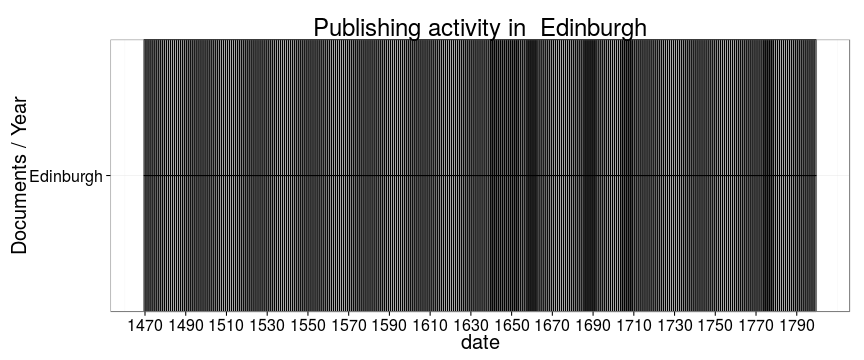
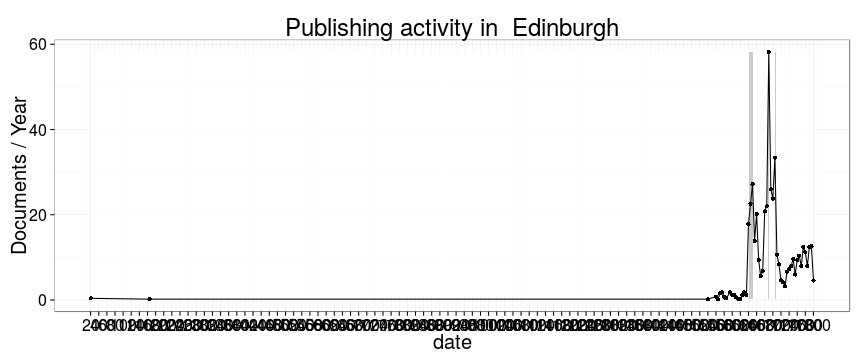
ok

diff --git a/inst/examples/Edinburgh.md b/inst/examples/Edinburgh.md
@@ -9,75 +9,8 @@ output: markdown_document
 
 
 
-
-```
-## Error in tapply(df$unity, list(df$publication.decade, df$publication.place), : arguments must have same length
-```
-
-```
-## Error in publications[is.na(publications)] <- 0: object 'publications' not found
-```
-
-```
-## Error in eval(expr, envir, enclos): object 'publications' not found
-```
-
-```
-## Error in melt(publications): object 'publications' not found
-```
-
-```
-## Error: All columns must be named
-```
-
-![plot of chunk EdinburghPubs](figure/EdinburghPubs-1.png) 
-
-```
-## Error in tapply(df$unity, list(df$publication.timeunit, df$publication.place), : arguments must have same length
-```
-
-```
-## Error in publications[is.na(publications)] <- 0: object 'publications' not found
-```
-
-```
-## Error in eval(expr, envir, enclos): object 'publications' not found
-```
-
-```
-## Error in melt(publications): object 'publications' not found
-```
-
-```
-## Error: All columns must be named
-```
-
-```
-## Warning in min(dfs$varname): no non-missing arguments to min; returning Inf
-```
-
-```
-## Warning in max(dfs$varname): no non-missing arguments to max; returning -
-## Inf
-```
-
-```
-## Error: Discrete value supplied to continuous scale
-```
-
-![plot of chunk EdinburghPubs](figure/EdinburghPubs-2.png) 
+![plot of chunk EdinburghPubs](figure/EdinburghPubs-1.png) ![plot of chunk EdinburghPubs](figure/EdinburghPubs-2.png) ![plot of chunk EdinburghPubs](figure/EdinburghPubs-3.png) 
 
 
 
-
-```
-## Error in eval(expr, envir, enclos): unknown column 'publication.decade'
-```
-
-```
-## Error in eval(expr, envir, enclos): object 'publication.decade' not found
-```
-
-```
-## Error in eval(expr, envir, enclos): object 'publication.decade' not found
-```
+![plot of chunk Edinburgh2](figure/Edinburgh2-1.png) ![plot of chunk Edinburgh2](figure/Edinburgh2-2.png) 
